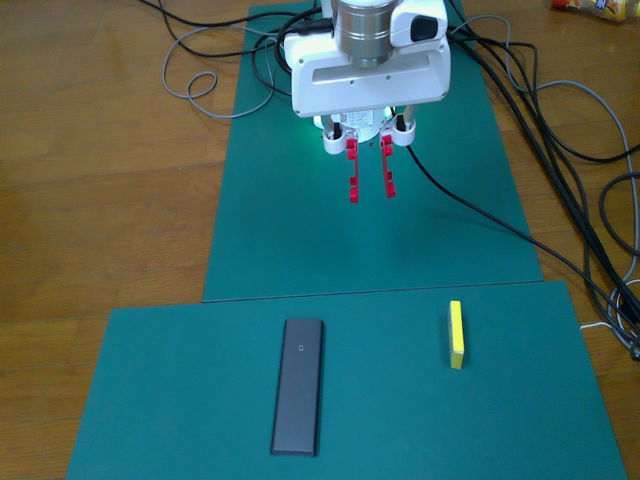
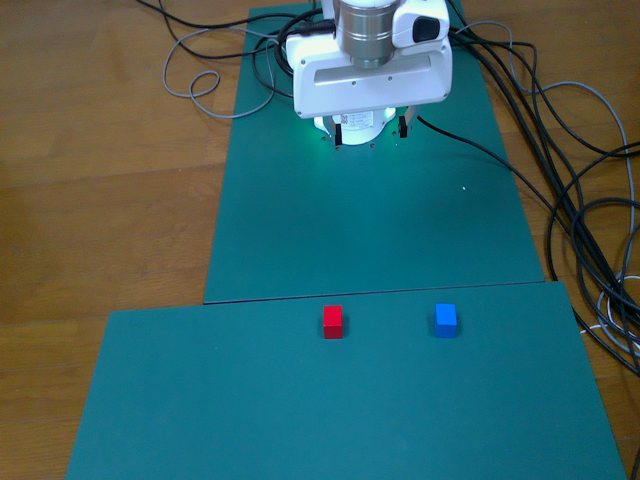
fixed franka's error bugs and add dp3_with_savg_inference & more detail modify

diff --git a/test_lerobot_policy.py b/test_lerobot_policy.py
@@ -1,0 +1,111 @@
+import sys
+import torch
+import numpy as np 
+import cv2
+import copy
+
+sys.path.append("/home/liusong/ProgramFiles/Huggingface/lerobot/lerobot/")
+from record_song import SmolVLA_ModelInference,ACT_ModelInference,DP_ModelInference
+
+import time
+import math
+import numpy as np
+import cv2
+import sys, os
+import threading
+import select
+from scipy.spatial.transform import Rotation as R
+from Robotics_API import Bestman_Real_Franka3, Pose
+from Motion_Planning.Manipulation.Skill_Franka3 import skill_database
+from Sensor.Camera_Realsense import Camera_Realsense
+from Dataset.scripts.data_collection import RealDataCollection
+from franky import Affine
+
+static_overhead_frame = []
+
+def get_cur_model_observation(camera,bestman,static_overhead_frame):
+        
+        gripper_width = bestman.gripper.width
+
+        cur_pos = bestman.get_current_joint_values()
+        
+        cur_eff_pose = bestman.get_current_eef_pose()
+        cur_eff_pose_position = cur_eff_pose.position
+        cur_eff_rotation =  R.from_quat(cur_eff_pose.orientation)
+        cur_eff_pose_orientation_eular_zyx = cur_eff_rotation.as_euler('zyx')
+        
+        img_hand_rgb = camera.get_rgb_image()
+
+        if len(static_overhead_frame) == 0:
+            static_overhead_frame = img_hand_rgb
+
+        # points, colors = camera.get_3d_points()
+        # points, colors = np.zeros((10,3)),np.zeros((10,3))#-----------temp_use
+        # hand_cloud_rgb = np.hstack((points,((colors*255).astype(np.uint8)))) 
+
+        cur_model_observation = {'joint_1':None,'joint_2':None,'joint_3': None,'joint_4':None,'joint_5':None,'joint_6': None,'joint_7':None,'gripper_width':None,
+                                'overhead':static_overhead_frame,"hand":img_hand_rgb,"point_cloud":{},"pose_eular":{}}
+        cur_observation_key_list = list(cur_model_observation.keys())
+        for idx, value in enumerate(cur_pos):
+            cur_model_observation[cur_observation_key_list[idx]] =180*value/3.14
+        cur_model_observation['gripper_width'] = gripper_width*1000*0.5
+        cur_model_observation['pose_eular'] = np.concatenate((cur_eff_pose_position, cur_eff_pose_orientation_eular_zyx), axis=0)
+        
+
+        return cur_model_observation
+
+
+
+# 1.初始化机器人（原代码逻辑）
+bestman = Bestman_Real_Franka3()
+if bestman.initialize_robot() is not True:
+    exit(-1)
+bestman.open_gripper()
+bestman.go_home()
+skill_franka3_database = skill_database.SkillFranka3Database()
+
+#2.Camera Initialize
+camera = Camera_Realsense(bestman.cfg.Camera)
+time.sleep(bestman.cfg.Camera.init_delay)
+
+#Config For Different Policies
+{
+    # ############3.PREPARE THE PARAMETERS
+    # REAL_RANDOM = False 
+    # IMAGE_STANDARD = False
+    # ############4.READY FOR SAM2
+    # USE_CAMERA = "overhead"#hand/overhead/all
+    # USE_SAM2 = True
+    # USE_MARK = "cloud_rgb"#arrowmark/dotmark/overlaymarkn
+    # ############5.Model Mode
+    # inference_model = "act"#dp3/smolvla/act/dp
+    # action_mode = "absolute"#relative/absolute
+    # action_type = "joint"#joint/pose/wait
+}
+    
+gripper_width_thresh = 0.03
+repo_id = "/home/liusong/ProgramFiles/BestMan/Dataset/dataset/test3/src_hdf5_to_lerobot/lerobot_datasets/processed_hdf5_to_lerobot_real_franka3_place_cube_joint_absolute/LiuSong-Scrat/smolvla"
+policy_path = "/home/liusong/ProgramFiles/BestMan/Policy/trained_model/lerobot_act/act_real_franka3_place_cube_joint_absolute_50episodes/pretrained_model"
+model_inference = ACT_ModelInference(repo_id,policy_path)
+
+while True:
+    cur_model_observation = get_cur_model_observation(camera,bestman,static_overhead_frame)
+    inference_action =  model_inference.single_inference(cur_model_observation).numpy()
+    inference_qpos = np.array(3.14*inference_action[:7]/180)
+    inference_gripper_width = inference_action[-1]/(1000*0.5)
+
+    bestman.move_arm_to_joint_values(inference_qpos)
+    if inference_gripper_width<gripper_width_thresh:
+        bestman.close_gripper()
+        
+    if sys.stdin in select.select([sys.stdin], [], [], 0)[0]:
+        line = sys.stdin.readline()
+        pressed_key = line.strip()
+        if line:
+            print(f"You pressed: {pressed_key}")
+        if pressed_key == 'q':
+            print("Program Over!")
+            break
+        
+bestman.release_robot()
+exit(-1)

diff --git a/Reference/useful_codes.py b/Reference/useful_codes.py
@@ -1,0 +1,64 @@
+temp_img = camera_overhead.get_rgb_image()
+temp_img =  cv2.resize(temp_img,(640,480),interpolation=cv2.INTER_LINEAR)
+cv2.imwrite("/home/liusong/ProgramFiles/BestMan/Dataset/Images/cube_stak.png",cv2.cvtColor(temp_img,cv2.COLOR_BGR2RGB))
+cv2.waitKey(0)
+
+
+
+
+import numpy as np
+import open3d as o3d
+
+points_n6=cloud_rgb
+
+# 分离 XYZ 和 RGB
+xyz = points_n6[:, :3]               # shape (N, 3)
+rgb = points_n6[:, 3:] / 255.0       # 转换到 [0, 1]
+
+# 创建 PointCloud 对象
+pcd = o3d.geometry.PointCloud()
+pcd.points = o3d.utility.Vector3dVector(xyz)
+pcd.colors = o3d.utility.Vector3dVector(rgb)  # 注意：colors 也是 Vector3dVector
+
+# 保存为 PLY 文件
+o3d.io.write_point_cloud("/home/liusong/temp/output.ply", pcd)
+
+print("PLY file saved as output.ply")
+
+
+
+import torch
+import numpy as np
+import pickle
+
+obs_dict = {
+    'image': torch.randn(3, 64, 64),          # PyTorch 张量
+    'agent_pos': np.array([0.1, 0.2, 0.3]),   # NumPy 数组
+    'task': 'pick_red_block'                  # 字符串
+}
+
+# 保存
+with open('obs_dict.pkl', 'wb') as f:
+    pickle.dump(obs_dict, f)
+
+# 读取
+with open('obs_dict.pkl', 'rb') as f:
+    data = pickle.load(f)
+
+print(type(data['image']))      # <class 'torch.Tensor'>
+print(type(data['agent_pos']))  # <class 'numpy.ndarray'>
+
+
+
+
+bgr = camera_overhead.get_rgb_image()
+rgb =cv2.cvtColor(bgr,cv2.COLOR_BGR2RGB)
+img_overhead_rgb_resized = cv2.resize(rgb,(640,480),interpolation=cv2.INTER_LINEAR)
+cv2.imwrite("/home/liusong/ProgramFiles/BestMan/Dataset/Images/cube_stak.png",img_overhead_rgb_resized)
+
+
+frame = cv2.imread("/home/liusong/ProgramFiles/BestMan/Dataset/Images/cube_stak.png")
+frame = cv2.cvtColor(frame, cv2.COLOR_BGR2RGB)
+width, height = frame.shape[:2][::-1]
+cv2.imshow("overhead_frame", cv2.cvtColor(frame, cv2.COLOR_RGB2BGR))
+cv2.waitKey(0)

diff --git a/deploy_dp3.py b/deploy_dp3.py
@@ -254,7 +254,7 @@ def mission_execution(camera_hand,camera_overhead, bestman,stage1segmentation,st
         if gripper_open_flag==1 and inference_gripper_width>gripper_width_thresh:
             bestman.open_gripper()
             gripper_open_flag = 0
-            
+
             model_va.policy_reset()
             bestman.open_gripper()
             bestman.go_home()   
@@ -606,7 +606,7 @@ if USE_SAM2:
     frame = cv2.imread("/home/liusong/ProgramFiles/BestMan/Dataset/Images/cube_stak.png")
     frame = cv2.cvtColor(frame, cv2.COLOR_BGR2RGB)
     width, height = frame.shape[:2][::-1]
-    # cv2.imshow("overhead_frame", frame)
+    # cv2.imshow("overhead_frame", cv2.cvtColor(frame, cv2.COLOR_RGB2BGR))
     # cv2.waitKey(0)
     predictor.load_first_frame(frame)
     if_init = True
@@ -614,14 +614,14 @@ if USE_SAM2:
     # First annotation
     ann_obj_id = 1  # give a unique id to each object we interact with (it can be any integers)
     ##! add points, `1` means positive click and `0` means negative click
-    points = np.array([[338, 339],[344,346],[344,360]], dtype=np.float32)
+    points = np.array([[327, 310],[337,323],[332,334]], dtype=np.float32)
     labels = np.array([1,1,1], dtype=np.int32)
     _, out_obj_ids, out_mask_logits = predictor.add_new_prompt(
         frame_idx=ann_frame_idx, obj_id=ann_obj_id, points=points, labels=labels
     )
 
     ann_obj_id = 2  # give a unique id to each object we interact with (it can be any integers)
-    points = np.array([[433, 393],[437,402],[440,414]], dtype=np.float32)
+    points = np.array([[441, 308],[454,321],[447,335]], dtype=np.float32)
     labels = np.array([1,1,1], dtype=np.int32)
     _, out_obj_ids, out_mask_logits = predictor.add_new_prompt(
         frame_idx=ann_frame_idx, obj_id=ann_obj_id, points=points, labels=labels

diff --git a/deploy_dp3_savg.py b/deploy_dp3_savg.py
@@ -630,7 +630,7 @@ if USE_SAM2:
     frame = cv2.imread("/home/liusong/ProgramFiles/BestMan/Dataset/Images/cube_stak.png")
     frame = cv2.cvtColor(frame, cv2.COLOR_BGR2RGB)
     width, height = frame.shape[:2][::-1]
-    # cv2.imshow("overhead_frame", frame)
+    # cv2.imshow("overhead_frame", cv2.cvtColor(frame, cv2.COLOR_RGB2BGR))
     # cv2.waitKey(0)
     predictor.load_first_frame(frame)
     if_init = True
@@ -638,14 +638,14 @@ if USE_SAM2:
     # First annotation
     ann_obj_id = 1  # give a unique id to each object we interact with (it can be any integers)
     ##! add points, `1` means positive click and `0` means negative click
-    points = np.array([[338, 339],[344,346],[344,360]], dtype=np.float32)
+    points = np.array([[327, 310],[337,323],[332,334]], dtype=np.float32)
     labels = np.array([1,1,1], dtype=np.int32)
     _, out_obj_ids, out_mask_logits = predictor.add_new_prompt(
         frame_idx=ann_frame_idx, obj_id=ann_obj_id, points=points, labels=labels
     )
 
     ann_obj_id = 2  # give a unique id to each object we interact with (it can be any integers)
-    points = np.array([[433, 393],[437,402],[440,414]], dtype=np.float32)
+    points = np.array([[441, 308],[454,321],[447,335]], dtype=np.float32)
     labels = np.array([1,1,1], dtype=np.int32)
     _, out_obj_ids, out_mask_logits = predictor.add_new_prompt(
         frame_idx=ann_frame_idx, obj_id=ann_obj_id, points=points, labels=labels

diff --git a/deploy_savg.py b/deploy_savg.py
@@ -366,7 +366,7 @@ if USE_SAM2:
     frame = cv2.imread("/home/liusong/ProgramFiles/BestMan/Dataset/Images/cube_stak.png")
     frame = cv2.cvtColor(frame, cv2.COLOR_BGR2RGB)
     width, height = frame.shape[:2][::-1]
-    # cv2.imshow("overhead_frame", frame)
+    # cv2.imshow("overhead_frame", cv2.cvtColor(frame, cv2.COLOR_RGB2BGR))
     # cv2.waitKey(0)
     predictor.load_first_frame(frame)
     if_init = True
@@ -374,14 +374,14 @@ if USE_SAM2:
     # First annotation
     ann_obj_id = 1  # give a unique id to each object we interact with (it can be any integers)
     ##! add points, `1` means positive click and `0` means negative click
-    points = np.array([[338, 339],[344,346],[344,360]], dtype=np.float32)
+    points = np.array([[327, 310],[337,323],[332,334]], dtype=np.float32)
     labels = np.array([1,1,1], dtype=np.int32)
     _, out_obj_ids, out_mask_logits = predictor.add_new_prompt(
         frame_idx=ann_frame_idx, obj_id=ann_obj_id, points=points, labels=labels
     )
 
     ann_obj_id = 2  # give a unique id to each object we interact with (it can be any integers)
-    points = np.array([[433, 393],[437,402],[440,414]], dtype=np.float32)
+    points = np.array([[441, 308],[454,321],[447,335]], dtype=np.float32)
     labels = np.array([1,1,1], dtype=np.int32)
     _, out_obj_ids, out_mask_logits = predictor.add_new_prompt(
         frame_idx=ann_frame_idx, obj_id=ann_obj_id, points=points, labels=labels
